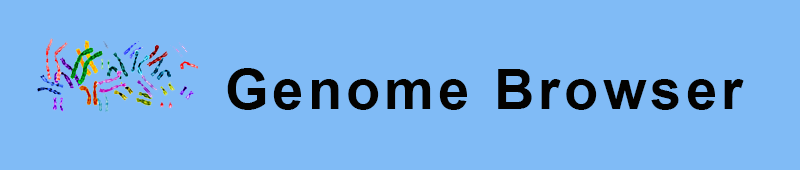
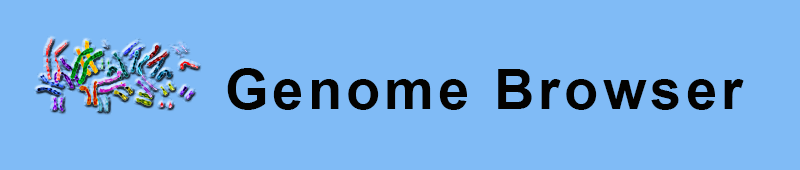
Adjusted genome browser widget
#82 #94

Changed region(s): [[0.0312, 0.2059, 0.25, 0.6765]]

diff --git a/app/views/tools.html b/app/views/tools.html
@@ -1,0 +1,23 @@
+<div class="viewHouse">
+
+	<definition-bar text="Tools < home" look="definitionLink"></definition-bar>
+
+	<div class="jumbotron research">
+	  <h1> Tools </h1>
+	  <h4><strong>Resources to enhance research</strong></h4>
+	</div>
+
+	<div class="container">
+
+		<!-- Techniques -->
+		<div class="row spaceUpDown">
+			<div class="col-md-4 col-sm-3 col-xs-2"></div>
+			<div class="col-md-4 col-sm-6 col-xs-8">
+				<a ng-href="#/tools/jbrowse" class="btn btn-danger btn-lg btn-block" role="button">New Genome Browser</a>
+			</div>
+			<div class="col-md-4 col-sm-3 col-xs-2"></div>
+		</div>
+
+	</div> <!-- container -->
+
+</div>
